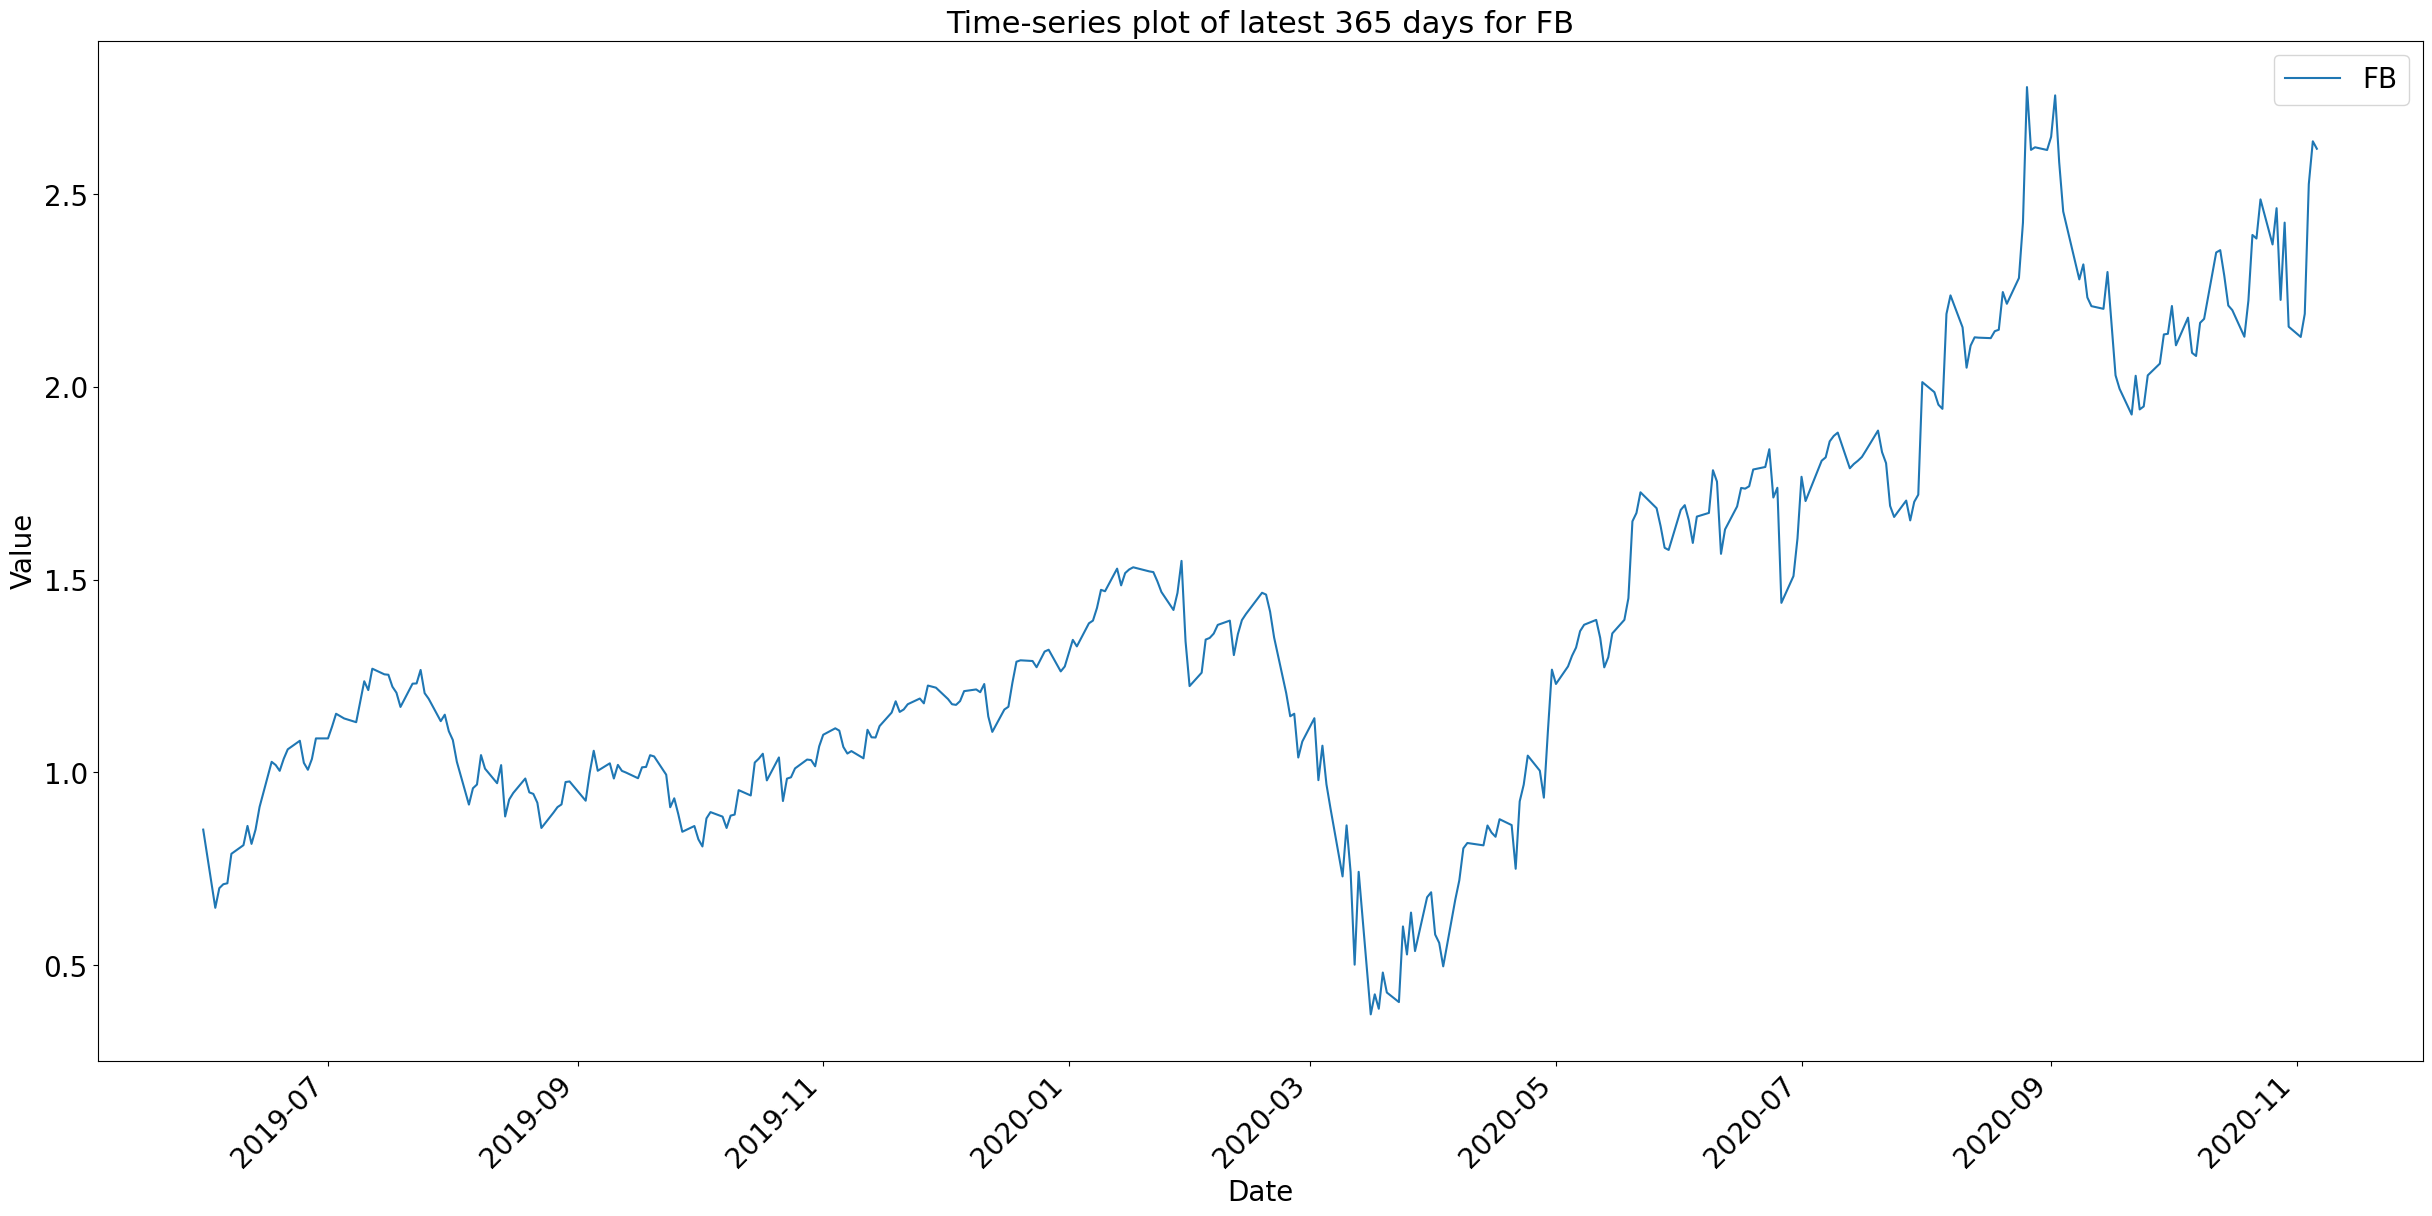
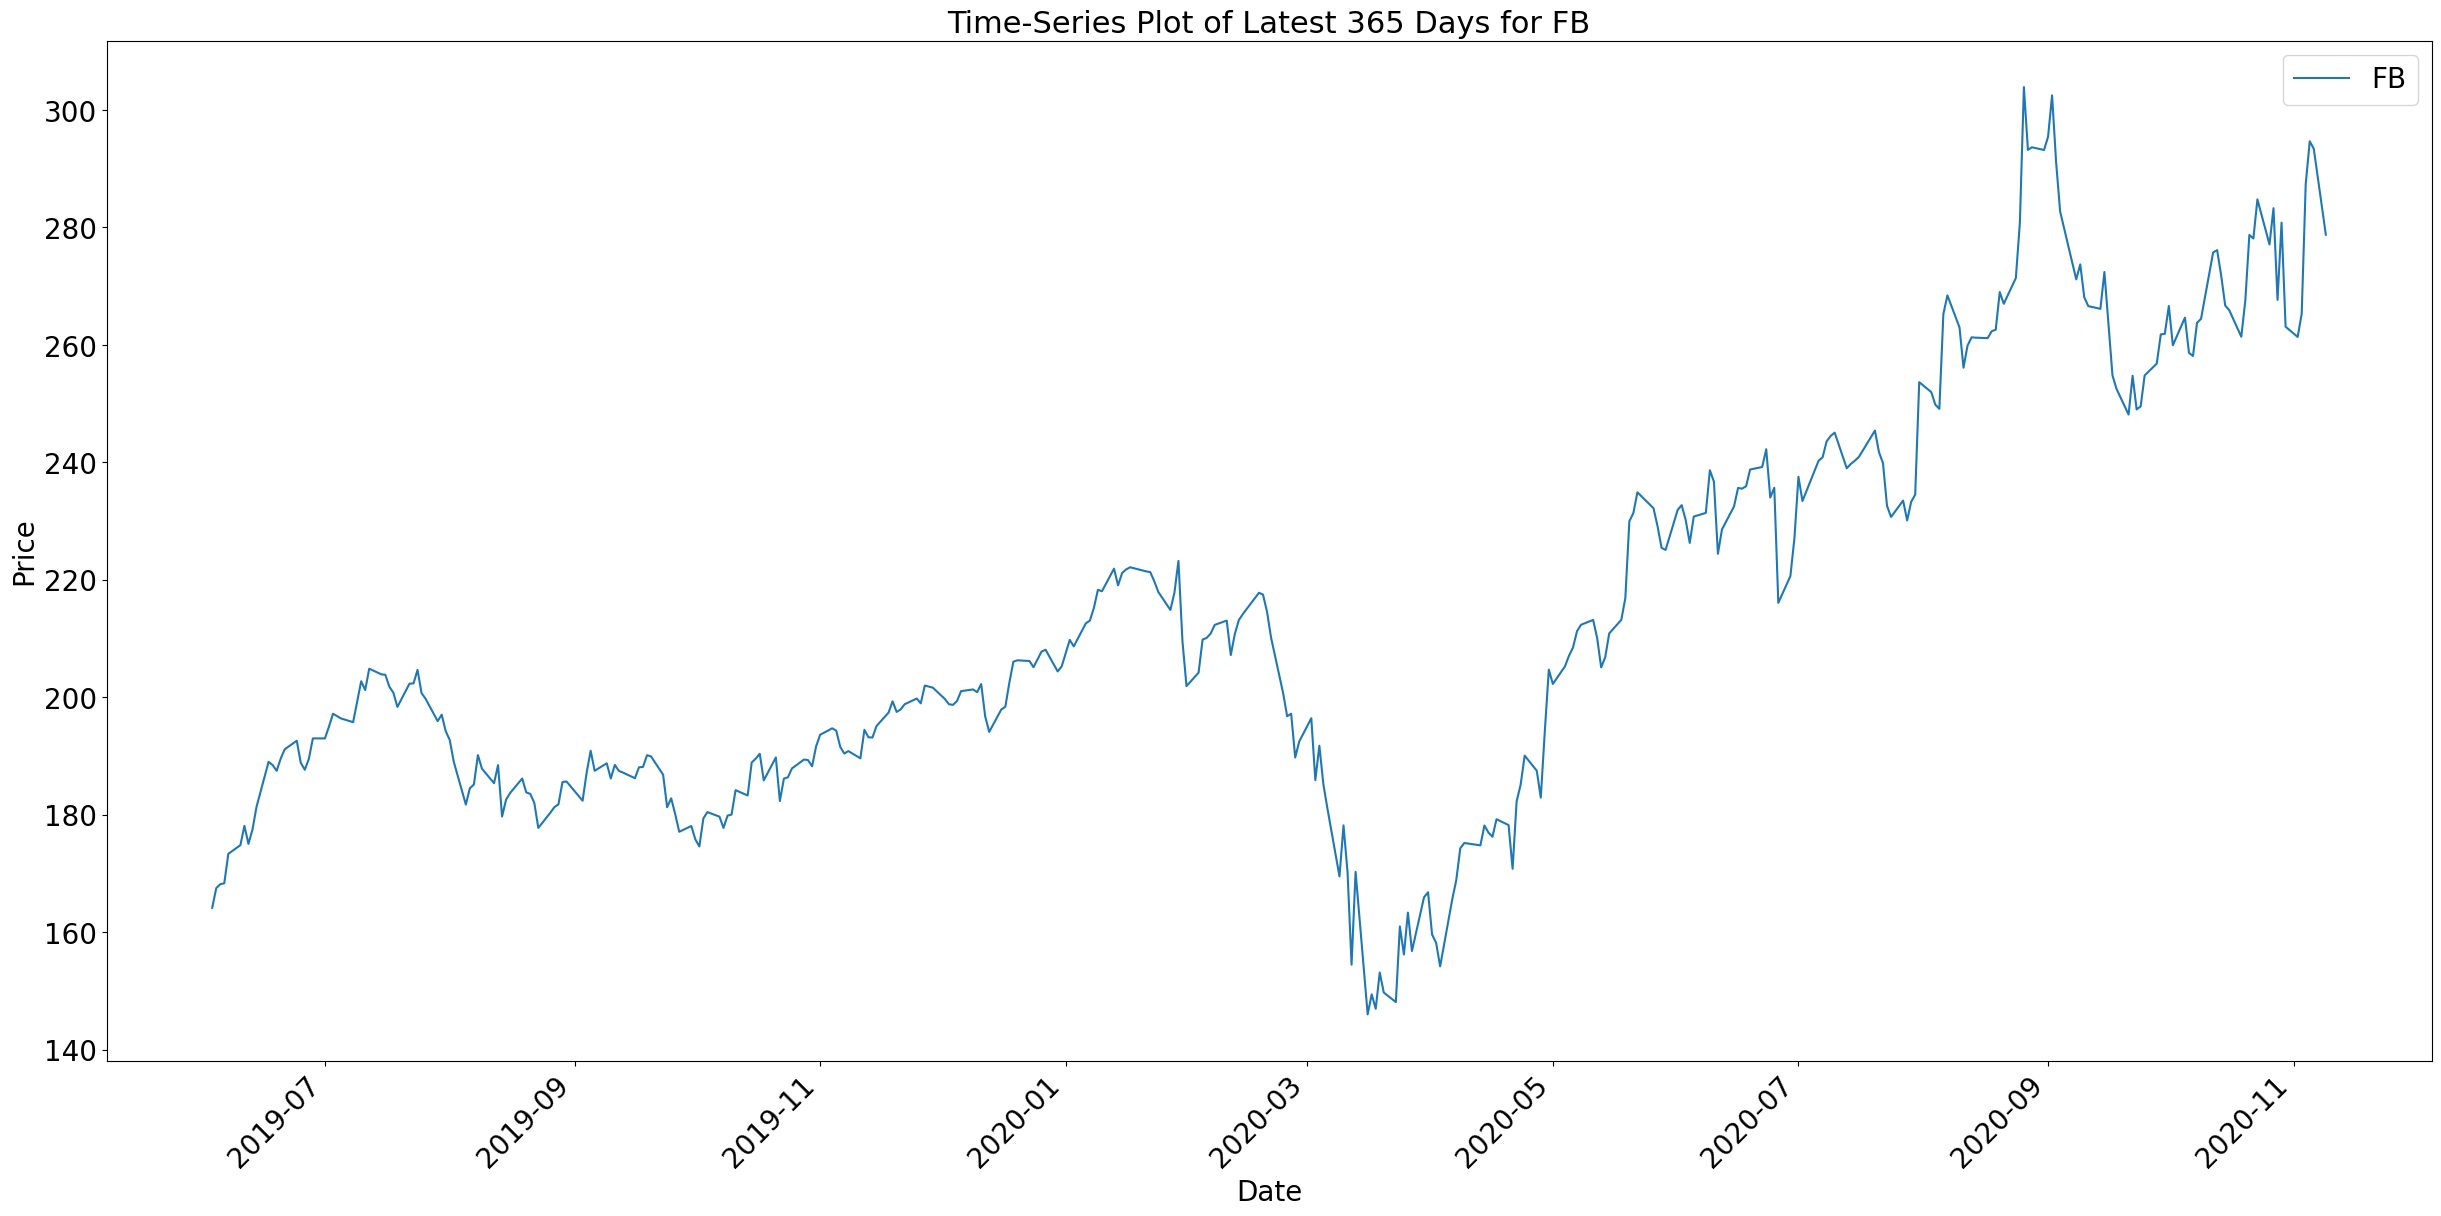
Changed to not scaled values for getting prices

diff --git a/Chatbot/bot.py b/Chatbot/bot.py
@@ -22,13 +22,14 @@ import tensorflow as tf
 import keras
 import windowDataset
 from windowDataset import getData, WindowGenerator
+import copy
 
 logging.basicConfig(format='%(asctime)s - %(name)s - %(levelname)s - %(message)s',
                      level=logging.INFO)
 logger = logging.getLogger(__name__)
 
 lastYear = datetime.datetime.now() - datetime.timedelta(days=365) # Dynamic date of today - 365 days
-df, a, b, c, dfRecommendations = range(5) # dataset
+df, dfScaled, a, b, c, dfRecommendations = range(6) # dataset
 FAANG, FACEBOOK, AMAZON, APPLE, NETFLIX, GOOGLE, REPEATOREXIT = range(7) # states
 
 def getData():
@@ -43,12 +44,13 @@ def getData():
     df["Date"] = pd.to_datetime(df["Date"]) # convert string to datetime format
     stocks = ['FB','AMZN','NFLX','GOOGL','AAPL']
     scaler = StandardScaler()
-    df[stocks] = scaler.fit_transform(df[stocks])
-    train_size = int(df.shape[0]*0.80)
-    val_size = int(df.shape[0]*0.90)
-    a = df.iloc[:train_size, :]
-    b = df.iloc[train_size:val_size, :]
-    c = df.iloc[val_size:, :]
+    dfScaled = copy.deepcopy(df)
+    dfScaled[stocks] = scaler.fit_transform(dfScaled[stocks])
+    train_size = int(dfScaled.shape[0]*0.80)
+    val_size = int(dfScaled.shape[0]*0.90)
+    a = dfScaled.iloc[:train_size, :]
+    b = dfScaled.iloc[train_size:val_size, :]
+    c = dfScaled.iloc[val_size:, :]
     a=a.drop("Date", axis =1)
     b=b.drop("Date", axis =1)
     c=c.drop("Date", axis =1)
@@ -67,14 +69,14 @@ def getData():
     # dfRecommendations
     dfRecommendations = pd.read_csv("recommendations.csv")# Read from cache to reduce time taken
     dfRecommendations["Date"] = pd.to_datetime(dfRecommendations["Date"]) # convert string to datetime format
-    return df, a, b, c, dfRecommendations
+    return df, dfScaled, a, b, c, dfRecommendations
 
 def start(update, context):
     user = update.message.from_user
     logger.info("User {} has started to use FAANG bot".format(user.first_name, update.message.text))
     # context.bot.send_message(chat_id=update.effective_chat.id, text="⌛⌛⌛ Grabbing data, please allow approximately 5s!")
-    global df, a, b, c, dfRecommendations
-    df, a, b, c, dfRecommendations = getData()
+    global df, dfScaled, a, b, c, dfRecommendations
+    df, dfScaled, a, b, c, dfRecommendations = getData()
     context.bot.send_message(chat_id=update.effective_chat.id, text="Connected! ✅ Latest data is at {}".format(df.iloc[-1].Date.strftime('%d-%m-%Y')))
     context.bot.send_message(chat_id=update.effective_chat.id, text="👋👋 Hey there! Welcome to the the FAANG Stocks Chatbot! 🤖")
     context.bot.send_message(chat_id=update.effective_chat.id, text="👩💻👩💻👩💻 **FAANG** refers to the five most popular and best-performing US tech companies: _Facebook, Amazon, Apple, Netflix and Alphabet_.", parse_mode=telegram.ParseMode.MARKDOWN)
@@ -214,7 +216,7 @@ def googleRec(update, context):
     return REPEATOREXIT
 
 def getPred(update, context, stock):
-    global df
+    global dfScaled
     user = update.message.from_user
     logger.info("User {} has selected to 'Predictions' for {}".format(user.first_name, stock))
     context.bot.send_message(chat_id=update.effective_chat.id, text='📐 Loading Model for {}.\n\n⌛⌛⌛ Please allow approximately 3 seconds. '.format(stock), reply_markup=ReplyKeyboardRemove())
@@ -235,13 +237,13 @@ def getPred(update, context, stock):
 
     context.bot.send_message(chat_id=update.effective_chat.id, text='📈 Plotting next predictions for next 30 days from latest date for {}.\n\n⌛⌛⌛ Please allow approximately 5 seconds. '.format(stock))
     prediction = model.predict(data.test)
-    tomorrow = df.iloc[-1]["Date"] + datetime.timedelta(days=1)
+    tomorrow = dfScaled.iloc[-1]["Date"] + datetime.timedelta(days=1)
     faangDict = {'FB':0, 'AMZN':1, 'AAPL':2, 'NFLX':3, 'GOOGL':4}
     predDf = pd.DataFrame([i[0] for i in prediction[0]], 
               index = pd.date_range(tomorrow, periods=30))
     predDf.columns = ["Prediction"]
     fig, ax = plt.subplots(figsize=(30,15))
-    plotDf = df.iloc[-180:, :][["Date", stock]].set_index("Date")
+    plotDf = dfScaled.iloc[-180:, :][["Date", stock]].set_index("Date")
     # scaler = StandardScaler()
     # plotDf[stock] = scaler.fit_transform(plotDf)
     plotDf.plot(figsize=(30,15), ax=ax, marker='.', zorder=-10)
